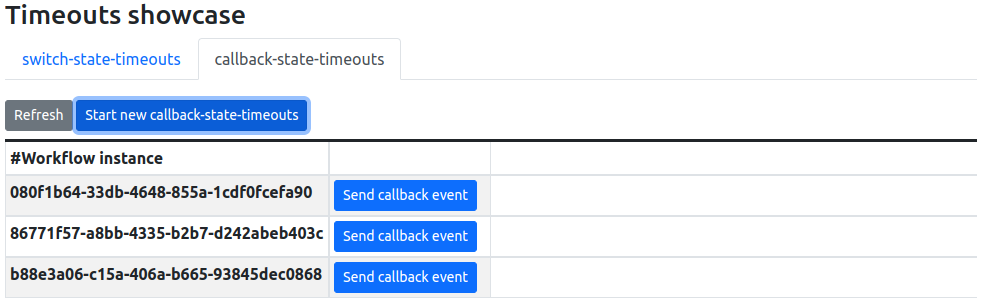
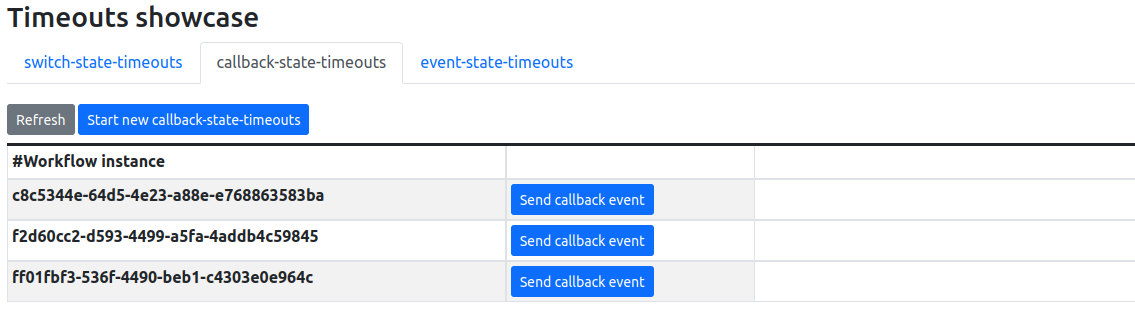
KOGITO-8054 Timeouts showcase example updates     - Adds an event state based example.     - Timeout not yet implemented since under development, but all the rest works

diff --git a/serverless-workflow-examples/serverless-workflow-timeouts-showcase/src/main/resources/META-INF/resources/app.js b/serverless-workflow-examples/serverless-workflow-timeouts-showcase/src/main/resources/META-INF/resources/app.js
@@ -1,6 +1,7 @@
 function refreshTables() {
     refreshSwitchStateTimeoutsTable();
     refreshCallbackStateTimeoutsTable();
+    refreshEventStateTimeoutsTable();
 }
 
 function refreshSwitchStateTimeoutsTable() {
@@ -20,6 +21,16 @@ function refreshCallbackStateTimeoutsTable() {
     })
             .fail(function () {
                 showError("An error was produced during the callback_state_timeouts table refresh, please check that server is running.");
+            });
+}
+
+function refreshEventStateTimeoutsTable() {
+    $.getJSON("/event_state_timeouts", (instances) => {
+        console.log(instances);
+        printEventStateTimeoutsTable(instances);
+    })
+            .fail(function () {
+                showError("An error was produced during the event_state_timeouts table refresh, please check that server is running.");
             });
 }
 
@@ -92,6 +103,45 @@ function printCallbackStateTimeoutsRow(tableBody, instance) {
     });
 }
 
+function printEventStateTimeoutsTable(instances) {
+    const table = $('#eventStateTimeoutsTable');
+    table.children().remove();
+    const tableBody = $('<tbody>').appendTo(table);
+    printEventStateTimeoutsTableHeader(table)
+    for (const instance of instances) {
+        printEventStateTimeoutsRow(tableBody, instance)
+    }
+}
+
+function printEventStateTimeoutsTableHeader(table) {
+    const header = $('<thead class="thead-dark">').appendTo(table);
+    const headerTr = $('<tr class="d-flex">').appendTo(header);
+    $('<th scope="col" class="col-4">#Workflow instance</th>').appendTo(headerTr);
+    $('<th scope="col" class="col-2"></th>').appendTo(headerTr);
+    $('<th scope="col" class="col-2"></th>').appendTo(headerTr);
+}
+
+function printEventStateTimeoutsRow(tableBody, instance) {
+    const tableRow = $('<tr class="d-flex">').appendTo(tableBody);
+    tableRow.append($(`<th scope="row" class="col-4">${instance.id}</th>`));
+
+    const sendEvent1Btn = $(`<button id="sendEvent1Btn_${instance.id}" type="button" class="btn btn-primary btn-sm">Send event1</button>`);
+    const sendEvent1ButtonTd = $(`<td class="col-2"></td>`);
+    sendEvent1ButtonTd.append(sendEvent1Btn);
+    tableRow.append(sendEvent1ButtonTd);
+    sendEvent1Btn.click(function () {
+        sendEvent1(instance.id);
+    });
+
+    const sendEvent2Btn = $(`<button id="sendEvent2Btn_${instance.id}" type="button" class="btn btn-primary btn-sm">Send event2</button>`);
+    const sendEvent2ButtonTd = $(`<td class="col-2"></td>`);
+    sendEvent2ButtonTd.append(sendEvent2Btn);
+    tableRow.append(sendEvent2ButtonTd);
+    sendEvent2Btn.click(function () {
+        sendEvent2(instance.id);
+    });
+}
+
 function sendVisaApprovalEvent(processInstanceId) {
     produceEvent("/events-producer/produce-switch-state-timeouts-visa-approved-event", processInstanceId, "Approved from UI", function () {
         disableSwitchStateTimeoutsButtons(processInstanceId);
@@ -113,6 +163,20 @@ function sendCallbackEvent(processInstanceId) {
     })
 }
 
+function sendEvent1(processInstanceId) {
+    produceEvent("/events-producer/produce-event-state-timeouts-event1", processInstanceId, "Event1 sent from UI", function () {
+        disableEventStateTimeoutsButtons(processInstanceId);
+        showEventsToast();
+    })
+}
+
+function sendEvent2(processInstanceId) {
+    produceEvent("/events-producer/produce-event-state-timeouts-event2", processInstanceId, "Event2 sent from UI", function () {
+        disableEventStateTimeoutsButtons(processInstanceId);
+        showEventsToast();
+    })
+}
+
 function startNewSwitchStateTimeouts() {
     startProcess("/switch_state_timeouts", function () {
         refreshSwitchStateTimeoutsTable();
@@ -122,6 +186,12 @@ function startNewSwitchStateTimeouts() {
 function startNewCallbackStateTimeouts() {
     startProcess("/callback_state_timeouts", function () {
         refreshCallbackStateTimeoutsTable();
+    });
+}
+
+function startNewEventStateTimeouts() {
+    startProcess("/event_state_timeouts", function () {
+        refreshEventStateTimeoutsTable();
     });
 }
 
@@ -168,6 +238,11 @@ function disableCallbackStateTimeoutsButtons(processInstanceId) {
     $(`#callbackEventBtn_${processInstanceId}`).prop('disabled', true);
 }
 
+function disableEventStateTimeoutsButtons(processInstanceId) {
+    $(`#sendEvent1Btn_${processInstanceId}`).prop('disabled', true);
+    $(`#sendEvent2Btn_${processInstanceId}`).prop('disabled', true);
+}
+
 function showError(message) {
     const notification = $(`<div class="toast" role="alert" aria-live="assertive" aria-atomic="true"  data-bs-delay="3000"/>`)
             .append($(`<div class="toast-header bg-danger">
@@ -200,6 +275,10 @@ $(document).ready(function () {
         refreshCallbackStateTimeoutsTable();
     });
 
+    $('#refreshEventStateTimeoutsButton').click(function () {
+        refreshEventStateTimeoutsTable();
+    });
+
     $("#startSwitchStateTimeoutsButton").click(function () {
         startNewSwitchStateTimeouts();
     });
@@ -207,4 +286,9 @@ $(document).ready(function () {
     $("#startCallbackStateTimeoutsButton").click(function () {
         startNewCallbackStateTimeouts();
     });
+
+    $("#startEventStateTimeoutsButton").click(function () {
+        startNewEventStateTimeouts();
+    });
+
 });

diff --git a/serverless-workflow-examples/serverless-workflow-timeouts-showcase/src/main/resources/META-INF/resources/index.html b/serverless-workflow-examples/serverless-workflow-timeouts-showcase/src/main/resources/META-INF/resources/index.html
@@ -36,6 +36,9 @@
         <li class="nav-item" role="presentation">
             <button class="nav-link" id="callback-state-timeouts-tab" data-bs-toggle="tab" data-bs-target="#callback-state-timeouts-container" type="button" role="tab" aria-controls="callback-state-timeouts-container" aria-selected="false">callback-state-timeouts</button>
         </li>
+        <li class="nav-item" role="presentation">
+            <button class="nav-link" id="event-sate-timeouts-tab" data-bs-toggle="tab" data-bs-target="#event-state-timeouts-container" type="button" role="tab" aria-controls="event-state-timeouts-container" aria-selected="false">event-state-timeouts</button>
+        </li>
     </ul>
     <div class="tab-content" id="myTabContent">
         <div class="tab-pane fade show active" id="switch-state-timeouts-container" role="tabpanel" aria-labelledby="switch-state-timeouts-tab">
@@ -58,6 +61,18 @@
                 </div>
 
                 <table class="table table-bordered table-striped table-sm" id="callbackStateTimeoutsTable">
+                    <!-- Filled in by app.js -->
+                </table>
+            </div>
+        </div>
+        <div class="tab-pane fade" id="event-state-timeouts-container" role="tabpanel" aria-labelledby="event-state-timeouts-tab">
+            <div style="padding-top: 20px;">
+                <div style="margin-bottom: .5rem">
+                    <button id="refreshEventStateTimeoutsButton" type="button" class="btn btn-secondary btn-sm">Refresh</button>
+                    <button id="startEventStateTimeoutsButton" type="button" class="btn btn-primary btn-sm">Start new event-state-timeouts</button>
+                </div>
+
+                <table class="table table-bordered table-striped table-sm" id="eventStateTimeoutsTable">
                     <!-- Filled in by app.js -->
                 </table>
             </div>

diff --git a/serverless-workflow-examples/serverless-workflow-timeouts-showcase/src/main/java/org/kie/kogito/examples/EventsProducerResource.java b/serverless-workflow-examples/serverless-workflow-timeouts-showcase/src/main/java/org/kie/kogito/examples/EventsProducerResource.java
@@ -21,6 +21,7 @@ import java.time.OffsetDateTime;
 import java.util.UUID;
 
 import javax.enterprise.context.ApplicationScoped;
+import javax.enterprise.event.Observes;
 import javax.inject.Inject;
 import javax.ws.rs.Consumes;
 import javax.ws.rs.POST;
@@ -30,6 +31,8 @@ import javax.ws.rs.Produces;
 import javax.ws.rs.core.MediaType;
 import javax.ws.rs.core.Response;
 
+import io.vertx.core.http.HttpMethod;
+import io.vertx.ext.web.Router;
 import org.eclipse.microprofile.reactive.messaging.Channel;
 import org.eclipse.microprofile.reactive.messaging.Emitter;
 import org.eclipse.microprofile.reactive.messaging.Message;
@@ -61,7 +64,14 @@ public class EventsProducerResource {
      * Event type expected by the callback_state_timeouts sw to receive the callback results from the callback function.
      */
     private static final String CALLBACK_EVENT_TYPE = "callback_event_type";
-
+    /**
+     * Event type expected by the event_state_timeouts sw to execute the associated actions.
+     */
+    private static final String EVENT1_EVENT_TYPE = "event1_event_type";
+    /**
+     * Event type expected by the event_state_timeouts sw to execute the associated actions.
+     */
+    private static final String EVENT2_EVENT_TYPE = "event2_event_type";
     /**
      * Outgoing channel for the response events sent to the processes.
      */
@@ -76,7 +86,6 @@ public class EventsProducerResource {
 
     /**
      * Produce a callback event for an instance of the callback-state-timeouts serverless workflow.
-     * 
      * @param processInstanceId Process instance id of the process that will receive the event.
      * @param event event to send.
      */
@@ -85,14 +94,11 @@ public class EventsProducerResource {
     @Produces(MediaType.APPLICATION_JSON)
     @Consumes(MediaType.APPLICATION_JSON)
     public Response produceCallbackStateTimeoutsEvent(@PathParam("processInstanceId") String processInstanceId, Event event) {
-        String cloudEvent = generateCloudEvent(processInstanceId, CALLBACK_EVENT_TYPE, event);
-        emitEvent(cloudEvent);
-        return Response.ok("{}").build();
+        return produceEvent(processInstanceId, CALLBACK_EVENT_TYPE, event);
     }
 
     /**
      * Produce a visa approval event for an instance of the switch-state-timeouts serverless workflow.
-     *
      * @param processInstanceId Process instance id of the process that will receive the event.
      * @param event event to send.
      */
@@ -101,14 +107,11 @@ public class EventsProducerResource {
     @Produces(MediaType.APPLICATION_JSON)
     @Consumes(MediaType.APPLICATION_JSON)
     public Response produceSwitchStateTimeoutsVistaApprovedEvent(@PathParam("processInstanceId") String processInstanceId, Event event) {
-        String cloudEvent = generateCloudEvent(processInstanceId, VISA_APPROVED_EVENT_TYPE, event);
-        emitEvent(cloudEvent);
-        return Response.ok("{}").build();
+        return produceEvent(processInstanceId, VISA_APPROVED_EVENT_TYPE, event);
     }
 
     /**
      * Produce a visa denial event for an instance of the switch-state-timeouts serverless workflow.
-     *
      * @param processInstanceId Process instance id of the process that will receive the event.
      * @param event event to send.
      */
@@ -117,7 +120,37 @@ public class EventsProducerResource {
     @Produces(MediaType.APPLICATION_JSON)
     @Consumes(MediaType.APPLICATION_JSON)
     public Response produceSwitchStateTimeoutsVistaDeniedEvent(@PathParam("processInstanceId") String processInstanceId, Event event) {
-        String cloudEvent = generateCloudEvent(processInstanceId, VISA_DENIED_EVENT_TYPE, event);
+        return produceEvent(processInstanceId, VISA_DENIED_EVENT_TYPE, event);
+    }
+
+    /**
+     * Produce the event1 for an instance of the event-state-timeouts serverless workflow.
+     * @param processInstanceId Process instance id of the process that will receive the event.
+     * @param event event to send.
+     */
+    @Path("produce-event-state-timeouts-event1/{processInstanceId}")
+    @POST
+    @Produces(MediaType.APPLICATION_JSON)
+    @Consumes(MediaType.APPLICATION_JSON)
+    public Response produceEventStateTimeoutsEvent1(@PathParam("processInstanceId") String processInstanceId, Event event) {
+        return produceEvent(processInstanceId, EVENT1_EVENT_TYPE, event);
+    }
+
+    /**
+     * Produce the event2 for an instance of the event-state-timeouts serverless workflow.
+     * @param processInstanceId Process instance id of the process that will receive the event.
+     * @param event event to send.
+     */
+    @Path("produce-event-state-timeouts-event2/{processInstanceId}")
+    @POST
+    @Produces(MediaType.APPLICATION_JSON)
+    @Consumes(MediaType.APPLICATION_JSON)
+    public Response produceEventStateTimeoutsEvent2(@PathParam("processInstanceId") String processInstanceId, Event event) {
+        return produceEvent(processInstanceId, EVENT2_EVENT_TYPE, event);
+    }
+
+    private Response produceEvent(String processInstanceId, String eventType, Event event) {
+        String cloudEvent = generateCloudEvent(processInstanceId, eventType, event);
         emitEvent(cloudEvent);
         return Response.ok("{}").build();
     }
@@ -125,14 +158,14 @@ public class EventsProducerResource {
     private String generateCloudEvent(String processInstanceId, String eventType, Event event) {
         try {
             return objectMapper.writeValueAsString(CloudEventBuilder.v1()
-                    .withId(UUID.randomUUID().toString())
-                    .withSource(URI.create("events-producer"))
-                    .withType(eventType)
-                    .withTime(OffsetDateTime.now())
-                    .withExtension("kogitoprocrefid", processInstanceId)
-                    .withDataContentType(MediaType.APPLICATION_JSON)
-                    .withData(JsonCloudEventData.wrap(objectMapper.createObjectNode().put("eventData", event.getEventData())))
-                    .build());
+                                                           .withId(UUID.randomUUID().toString())
+                                                           .withSource(URI.create("events-producer"))
+                                                           .withType(eventType)
+                                                           .withTime(OffsetDateTime.now())
+                                                           .withExtension("kogitoprocrefid", processInstanceId)
+                                                           .withDataContentType(MediaType.APPLICATION_JSON)
+                                                           .withData(JsonCloudEventData.wrap(objectMapper.createObjectNode().put("eventData", event.getEventData())))
+                                                           .build());
         } catch (JsonProcessingException e) {
             throw new IllegalArgumentException(e);
         }
@@ -143,6 +176,7 @@ public class EventsProducerResource {
     }
 
     public static class Event {
+
         private String eventData;
 
         public Event() {

diff --git a/serverless-workflow-examples/serverless-workflow-timeouts-showcase/src/main/java/org/kie/kogito/examples/VertxRouter.java b/serverless-workflow-examples/serverless-workflow-timeouts-showcase/src/main/java/org/kie/kogito/examples/VertxRouter.java
@@ -1,0 +1,16 @@
+package org.kie.kogito.examples;
+
+import javax.enterprise.context.ApplicationScoped;
+import javax.enterprise.event.Observes;
+
+import io.vertx.core.http.HttpMethod;
+import io.vertx.ext.web.Router;
+
+@ApplicationScoped
+public class VertxRouter {
+
+    public void setupRouter(@Observes Router router) {
+        // send get requests on the root path o the index.html too.
+        router.route(HttpMethod.GET, "/").order(Integer.MIN_VALUE).handler(ctx -> ctx.reroute("/index.html"));
+    }
+}

diff --git a/serverless-workflow-examples/serverless-workflow-timeouts-showcase/README.md b/serverless-workflow-examples/serverless-workflow-timeouts-showcase/README.md
@@ -231,6 +231,11 @@ In this tab, you can create and complete instances of the callback-sate-timeouts
 
 ![](docs/CallbackStateTimeoutsTab.png)
 
+#### Event-state-timeouts tab
+In this tab, you can create and complete instances of the event-sate-timeouts process.
+
+![](docs/EventStateTimeoutsTab.png)
+
 > **NOTE:** Remember that example workflows are configured with timeouts, which means that, if you create a workflow instance
 > and execute no action, when the timeout is met, if you refresh the data, the given instance won't be shown anymore. This last is perfectly fine, since the workflow might have finished because of the timeout overdue.
 > 
